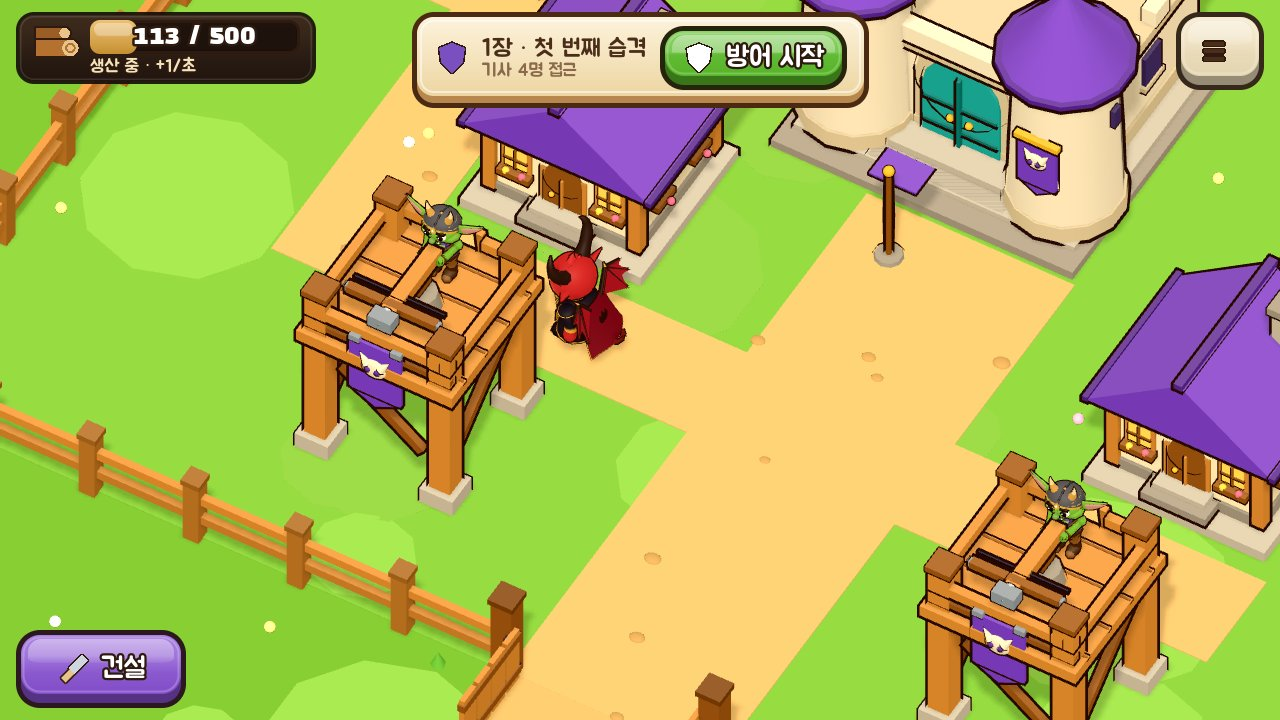
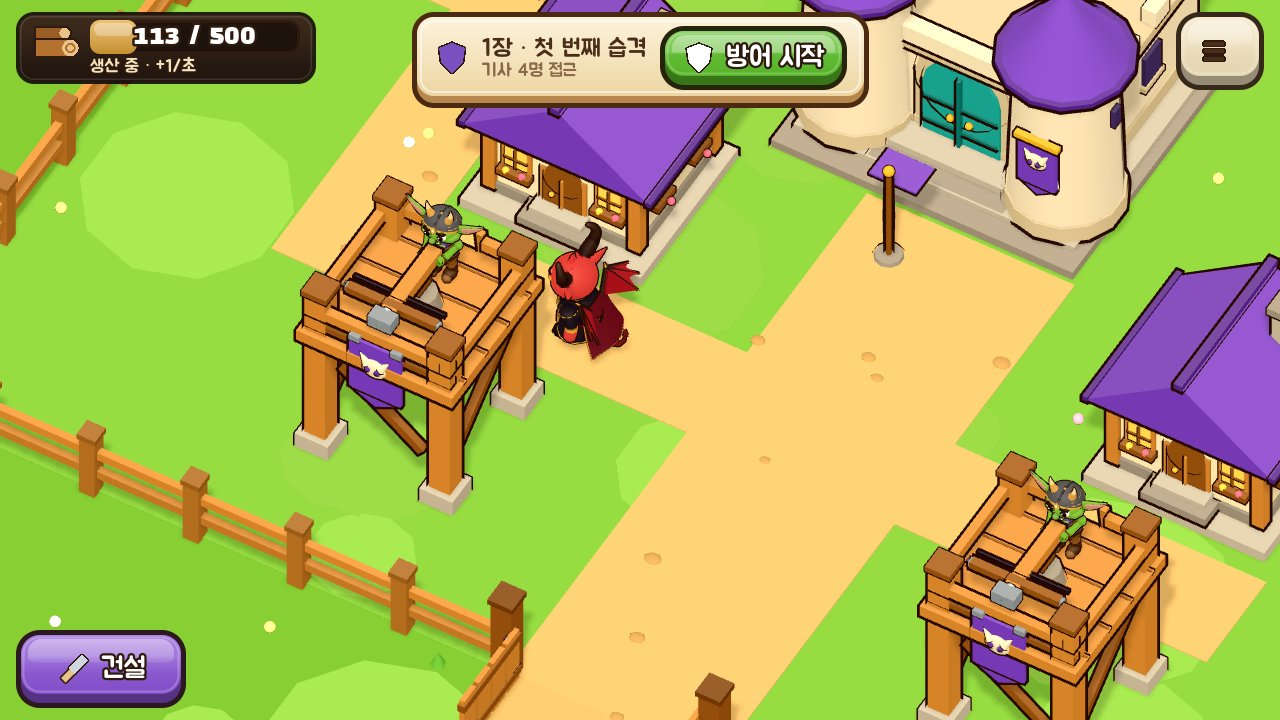
악마형 마왕 Lv.1 후보 3차 보완(2차 심사 반영): 굵은 숫양 뿔(홈·뭉툭한 끝·뒤로 눕힘), 산호색 피부·복숭아 볼·와인색 망토·연한 눈썹, 잎 모양 귀, 꼬리를 망토 단 아래로, 악마 머리 문장, 뒤로 쓸린 날개
- 삼각형 6,000(예산 안), 정점 4,831, 리그 검사 89 통과, 기존 검사 520·605 변화 없음
- 보고서: 3라운드 심사 이력과 남은 차이 갱신

Claude-Session: https://claude.ai/code/session_018KLY14EwvE8xar9qznKC7e

Changed region(s): [[0.4062, 0.3056, 0.5, 0.4889]]

diff --git a/docs/design/demon-lv1/README.md b/docs/design/demon-lv1/README.md
@@ -52,7 +52,13 @@
 
 변경·추가 파일: `scripts/world/chars/demon_geo.gd`, `scripts/world/chars/demon_lv1_builder.gd`(새 파일), `tests/demon_lv1_scene.gd`(테스트 씬·캡처), `tests/demon_lv1_checks.gd`(리그 검사), `scripts/debug/shot_driver.gd`에 시나리오 `demon_lv1` 추가(디버그 전용, 내보내기 제외), `docs/design/concept/sheet-3-demon-king.jpg`와 `crops/s3-*`. **기존 `imp_builder.gd`·`char_geo.gd`·`character_rig.gd`·다른 캐릭터·config 는 수정하지 않았습니다.**
 
-**심사와 2차 보완.** 별도 심사 에이전트가 1차 결과를 시안과 대조해 일치 6 / 형태 6으로 매기고 막힘 4건(지퍼처럼 보이는 코트 앞면, 코트 속에 묻힌 망토, 머리 겉면을 스치는 뿔 뿌리 자국, 화남 표정에서 깨지는 눈썹·떠다니는 눈선)과 소소한 8건(눈 크기·위치, 동공, 코, 볼, 귀 방향, 날개 위치·색, 앞치마 크기, 불꽃 곁가지, 꼬리 색·화살촉)을 지적했고, 모두 반영했습니다. 캡처 자체의 문제(대기 자세 t=0에서 고개가 27° 돌아감)도 지적받아 정적 캡처를 고개를 돌리지 않는 시각(t=1.43)으로 바꿨습니다(기존·후보 모두 같은 조건).
+**심사와 보완(3라운드).** 별도 심사 에이전트가 시안과 대조해 점수를 매기고 고칠 목록을 냈습니다.
+
+| 라운드 | 심사 점수(일치 / 형태) | 지적 → 반영 |
+| --- | --- | --- |
+| 1차 | 6 / 6 | 막힘 4: 지퍼처럼 보이는 코트 앞면 → 금 테 옷깃·버건디 가슴판·어깨 덮개·긴 단·큰 해골 / 코트 속에 묻힌 망토 → 코트 등판 밖으로, 금 테·등 문장 / 머리 겉면을 스치는 뿔 뿌리 → 법선 방향 첫 마디 / 화남 표정에서 깨지는 눈썹·떠다니는 눈선 → 끝이 가는 눈썹, 눈알에 붙은 짙은 뚜껑. 소소한 8건(눈 크기·위치, 동공, 코, 볼, 귀, 날개, 앞치마, 불꽃 곁가지, 꼬리) 반영. 캡처의 고개 돌림(대기 t=0)도 지적 → t=1.43 로 통일 |
+| 2차 | 6.5 / 6 | 코트·망토 해결, 뿔 뿌리·눈썹 부분 해결. 남은 지적 → 반영: 뿔을 굵은 숫양 뿔로(가운데 ≥ 60%, 뭉툭한 끝, 어두운 홈 5개, 15% 짧게, 뒤로 눕힘, 뿌리 깃 축소) / 눈썹 밑 줄무늬(조각 능선) 낮춤·눈썹 짧고 둥글게·연한 산호색 / 피부 산호색·볼 복숭아색 60%·망토 와인색 / 잎 모양 큰 귀(위·뒤로 기울임, 밝은 안쪽) / 꼬리는 망토 단 아래로, 등 문장을 악마 머리꼴 밝은 붉은색으로 위에 / 날개 25~30° 뒤로 / 눈 분할 상향 / 해골 걸쇠를 가슴에 붙임 / 엄지를 주먹에 묻음 |
+| 3차 | (심사 없음: 제작자 확인) | 아래 결과 캡처. 심사자가 요청한 "웃음의 ∩ 눈·기절의 X 눈"은 별도 기하가 필요해 미반영 |
 
 ## 4. 결과(같은 카메라·조명·해상도)
 
@@ -86,18 +92,18 @@ A 기존 모델 / C 새 모델 회색 재질 / D 새 모델 최종:
 - `tests/demon_lv1_checks.gd`(헤드리스): 기존 뿔이 Lv.1과 후보에 같은 검사 → **89 통과, 0 실패**. 관절·얼굴 뼈·망토 뼈, 대기 최저점(후보 0.005), HEIGHT 0.920(0.85~1.0), 정면 −Z, 오른손 +X, 걷기 접지(−0.03~0.035)·몸 위아래·무릎 굽힘, 환호 중 최저점, 무서운 척 최저점(공통 자세가 몸을 좌우로 기울여 바깥 장화·망토 모서리가 내려감, 기준 −0.05), 표정 4종 변화, 6초 안 깜빡임, 망토 2차 움직임, 삼각형 예산, 그리기 호출 1, 결정적 메시·자세.
 - 기존 검사도 변화 없음: 캐릭터 검사 520, 규칙 검사 605 통과(다른 캐릭터·뿔이 Lv.2~4 무변경).
 - 실제 게임 시나리오(`--scenario=demon_lv1`): 산책·누르기 판정(true)·말풍선(true)·환호·무서운 척 모두 후보에서도 동작. 관통: 테스트 씬 캡처에서 망토·날개·꼬리·얼굴의 눈에 띄는 관통 없음(걷기·환호·무서운 척 프레임 기준, 전 프레임 검사는 아님).
-- 성능(측정값): 모델 단위 삼각형 5,189 → 5,994(+16%, 예산 6,000 안), 정점 5,293 → 4,799(−9%, CPU 스키닝 부담 감소), 그리기 호출 1 → 1. 장면 FPS 는 따로 재지 않았습니다(캐릭터 1명 차이라 소프트웨어 렌더러 오차보다 작습니다).
+- 성능(측정값): 모델 단위 삼각형 5,189 → 6,000(+16%, 예산 6,000 안), 정점 5,293 → 4,831(−9%, CPU 스키닝 부담 감소), 그리기 호출 1 → 1. 장면 FPS 는 따로 재지 않았습니다(캐릭터 1명 차이라 소프트웨어 렌더러 오차보다 작습니다).
 
 ## 6. 시안과 아직 다른 것 / 남은 개선
 
-- 뿔: 시안보다 끝이 가늘고 마디 능선이 약함(폭 변화만으로 표현). 끝을 조금 더 굵게, 능선 골을 더 깊게 할 수 있음.
-- 눈: 시안의 날카로운 아몬드(바깥 위로 올라간 꼬리)보다 둥긂. 눈꺼풀 선·기울기(0.26rad)로 근사했고, 더 날카롭게 하려면 눈알 자체를 아몬드꼴로 조각해야 함.
-- 코·입: 시안의 작은 세모코·다문 입을 점과 선으로 단순화. 가까이서는 송곳니가 더 눈에 띔.
-- 코트 앞트임·안쪽 붉은 천, 소매 금 테 디테일은 금 띠·소맷단 고리로 단순화.
-- 날개막의 손가락 사이 패임이 얕고 막에 짙은 테두리 선이 없음(시안은 어두운 테두리).
-- 망토 문양(뒤의 악마 문장)은 없음.
-- 뒷모습에서 꼬리가 망토 위에 놓임(시안은 망토 아래로 나옴).
-- 실기기 미검증.
+- 눈: 시안의 날카로운 아몬드보다 둥근 편(기울기·윗 뚜껑으로 근사). "웃음"은 눈을 눌러 만든 가로선이라 시안의 ∩ 모양이 아니고, "기절"도 같은 선(시안·심사자가 말한 X 눈은 별도 기하 필요).
+- 눈썹은 시안의 두툼한 능선보다 가는 띠. 표정 회전(공통 리그)으로 바깥 끝이 머리 윤곽 밖으로 조금 나올 수 있음.
+- 코트 앞트임의 V 폭이 시안보다 좁고(해골 폭 정도), 양옆 금 세로 테는 정면에서 가늘게만 보임. 소매 금 테·장갑 디테일은 소맷단 고리로 단순화.
+- 뿔: 2차 심사 뒤 굵게·홈을 넣었으나 심사자가 다시 보지 않았음(3차는 제작자 확인만). 홈은 색과 반지름으로만 표현.
+- 날개막에 어두운 테두리 선이 없고 손가락 사이 패임이 얕음. 뿌리 쪽 막은 삼각 판 하나.
+- 뒷모습의 문장은 평판이라 망토가 흔들릴 때 함께 휘지 않음(같은 Cape 뼈라 위치는 따라감).
+- 무서운 척 자세(공통)의 좌우 기울기에서 망토·장화 모서리가 지면 아래로 최대 4~5cm 내려감(기준 −5cm 안).
+- 실기기 미검증, 장면 FPS 미측정.
 
 ## 7. 실행 방법과 되돌리기
 
